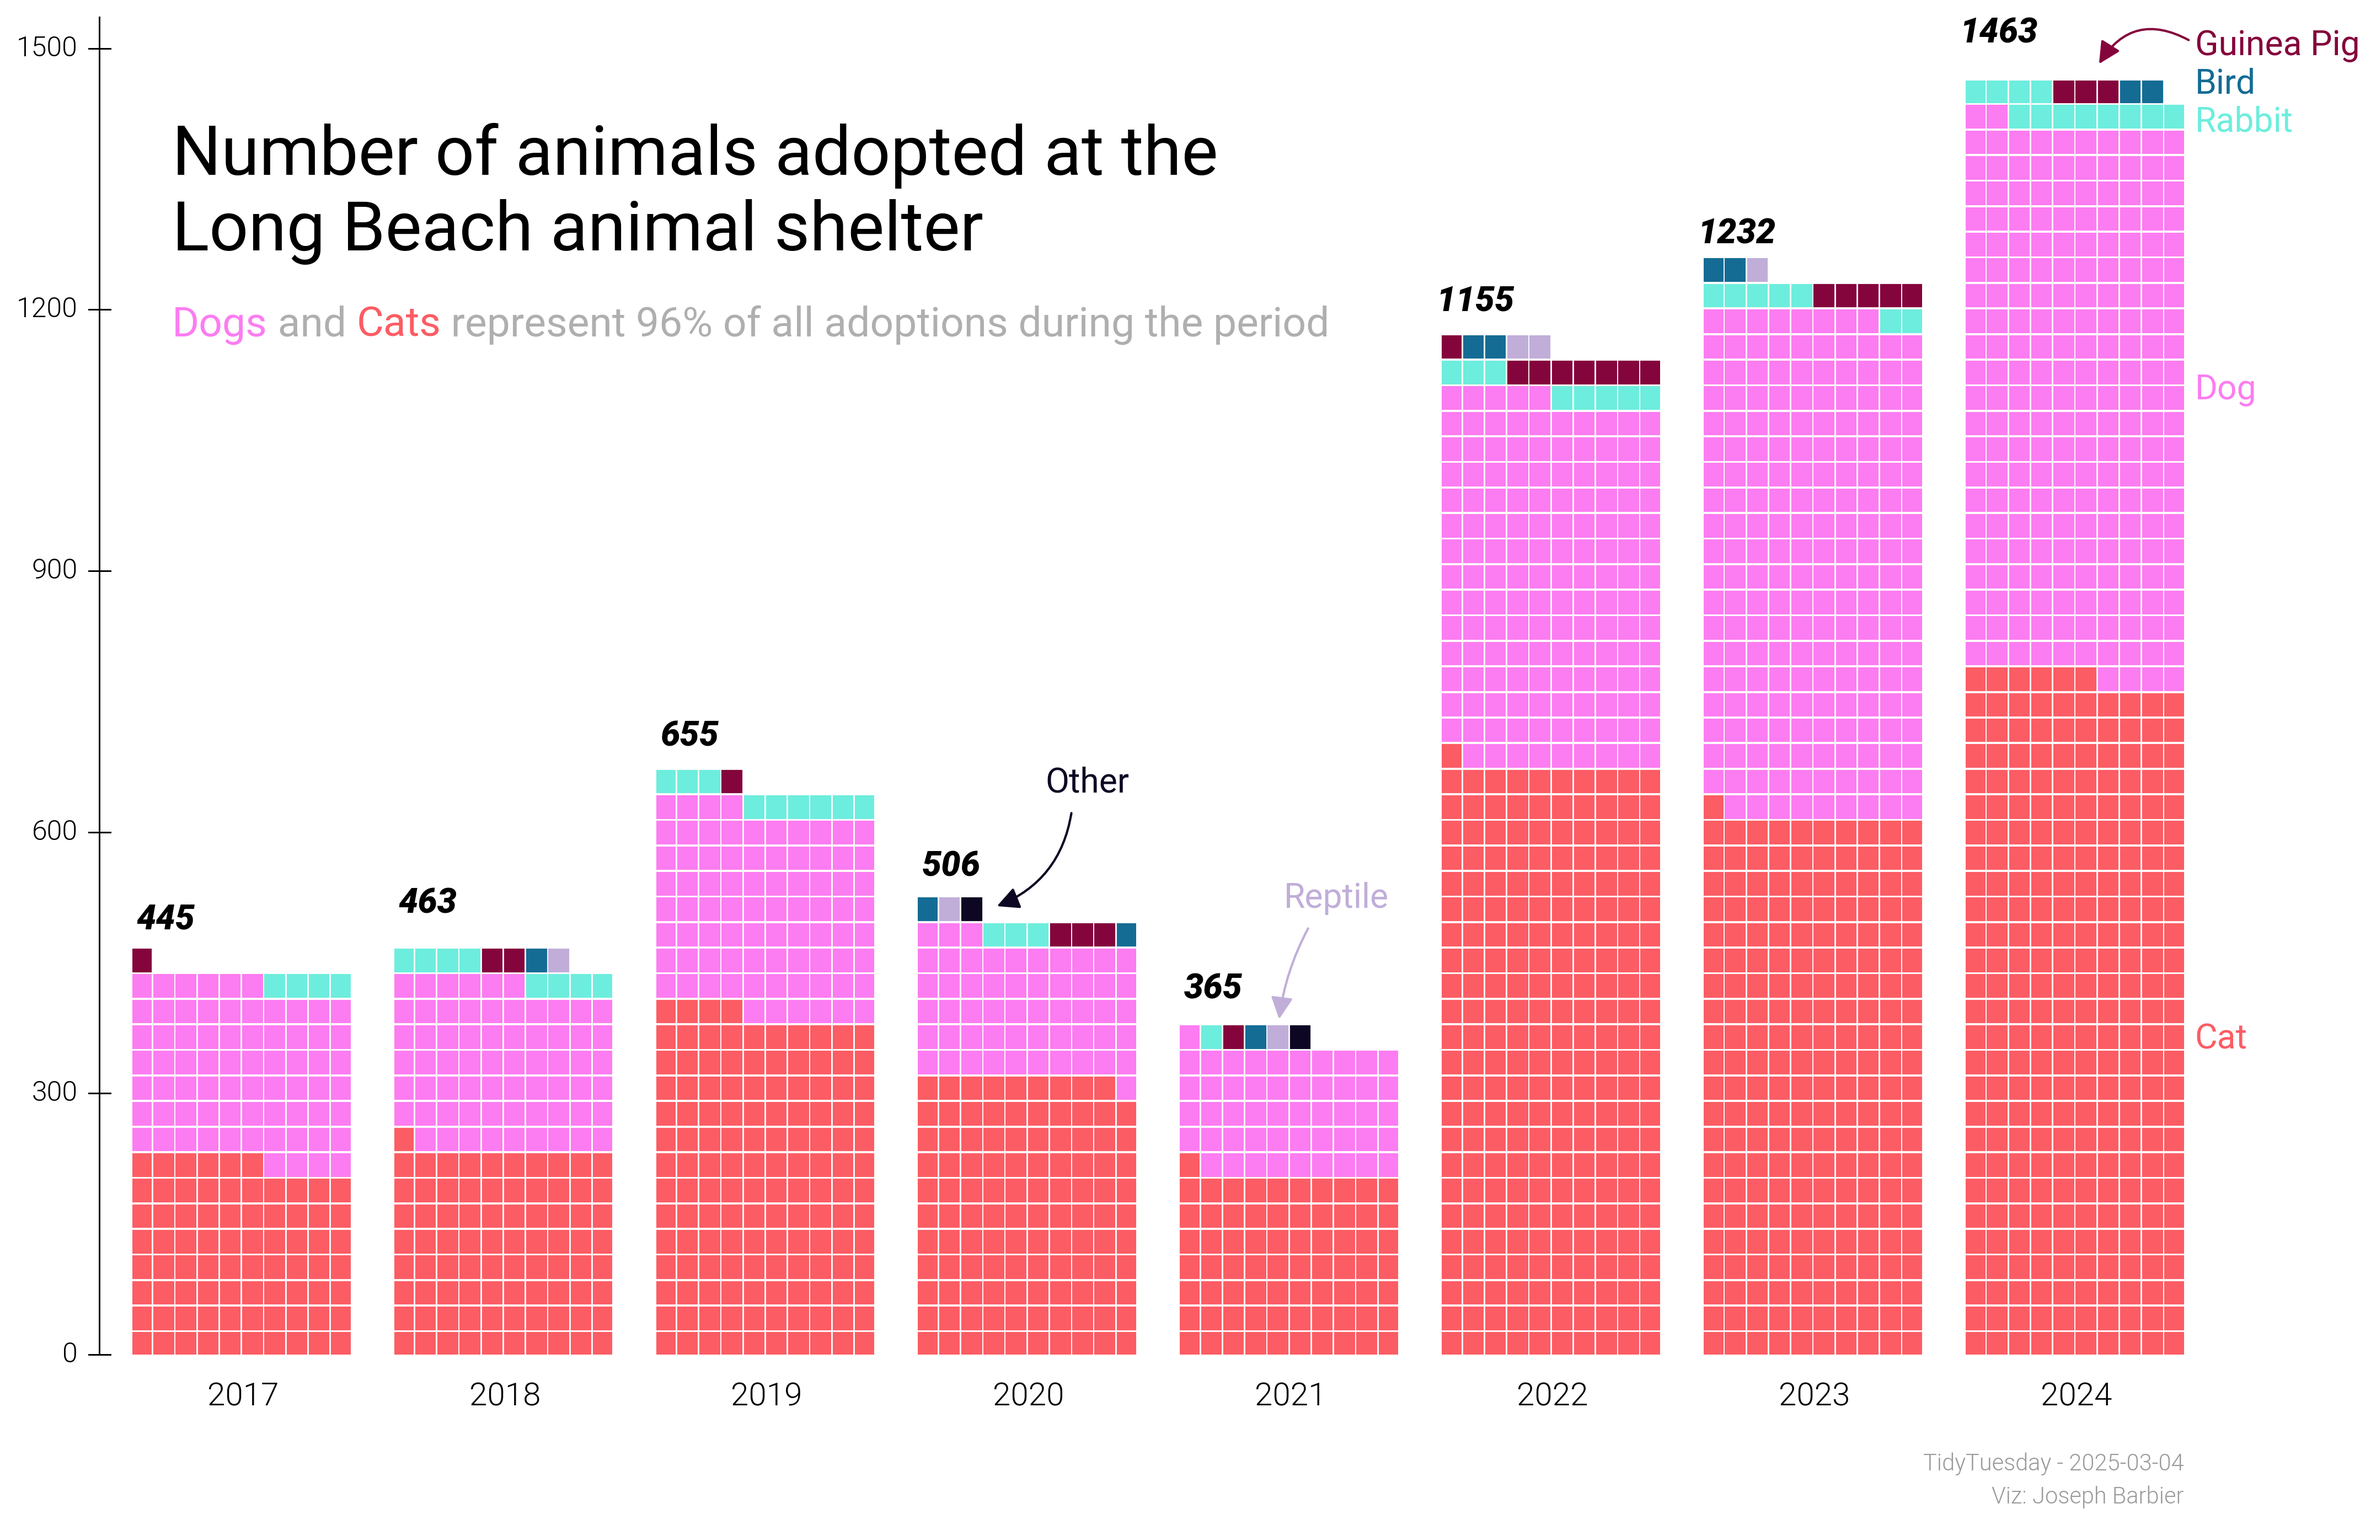
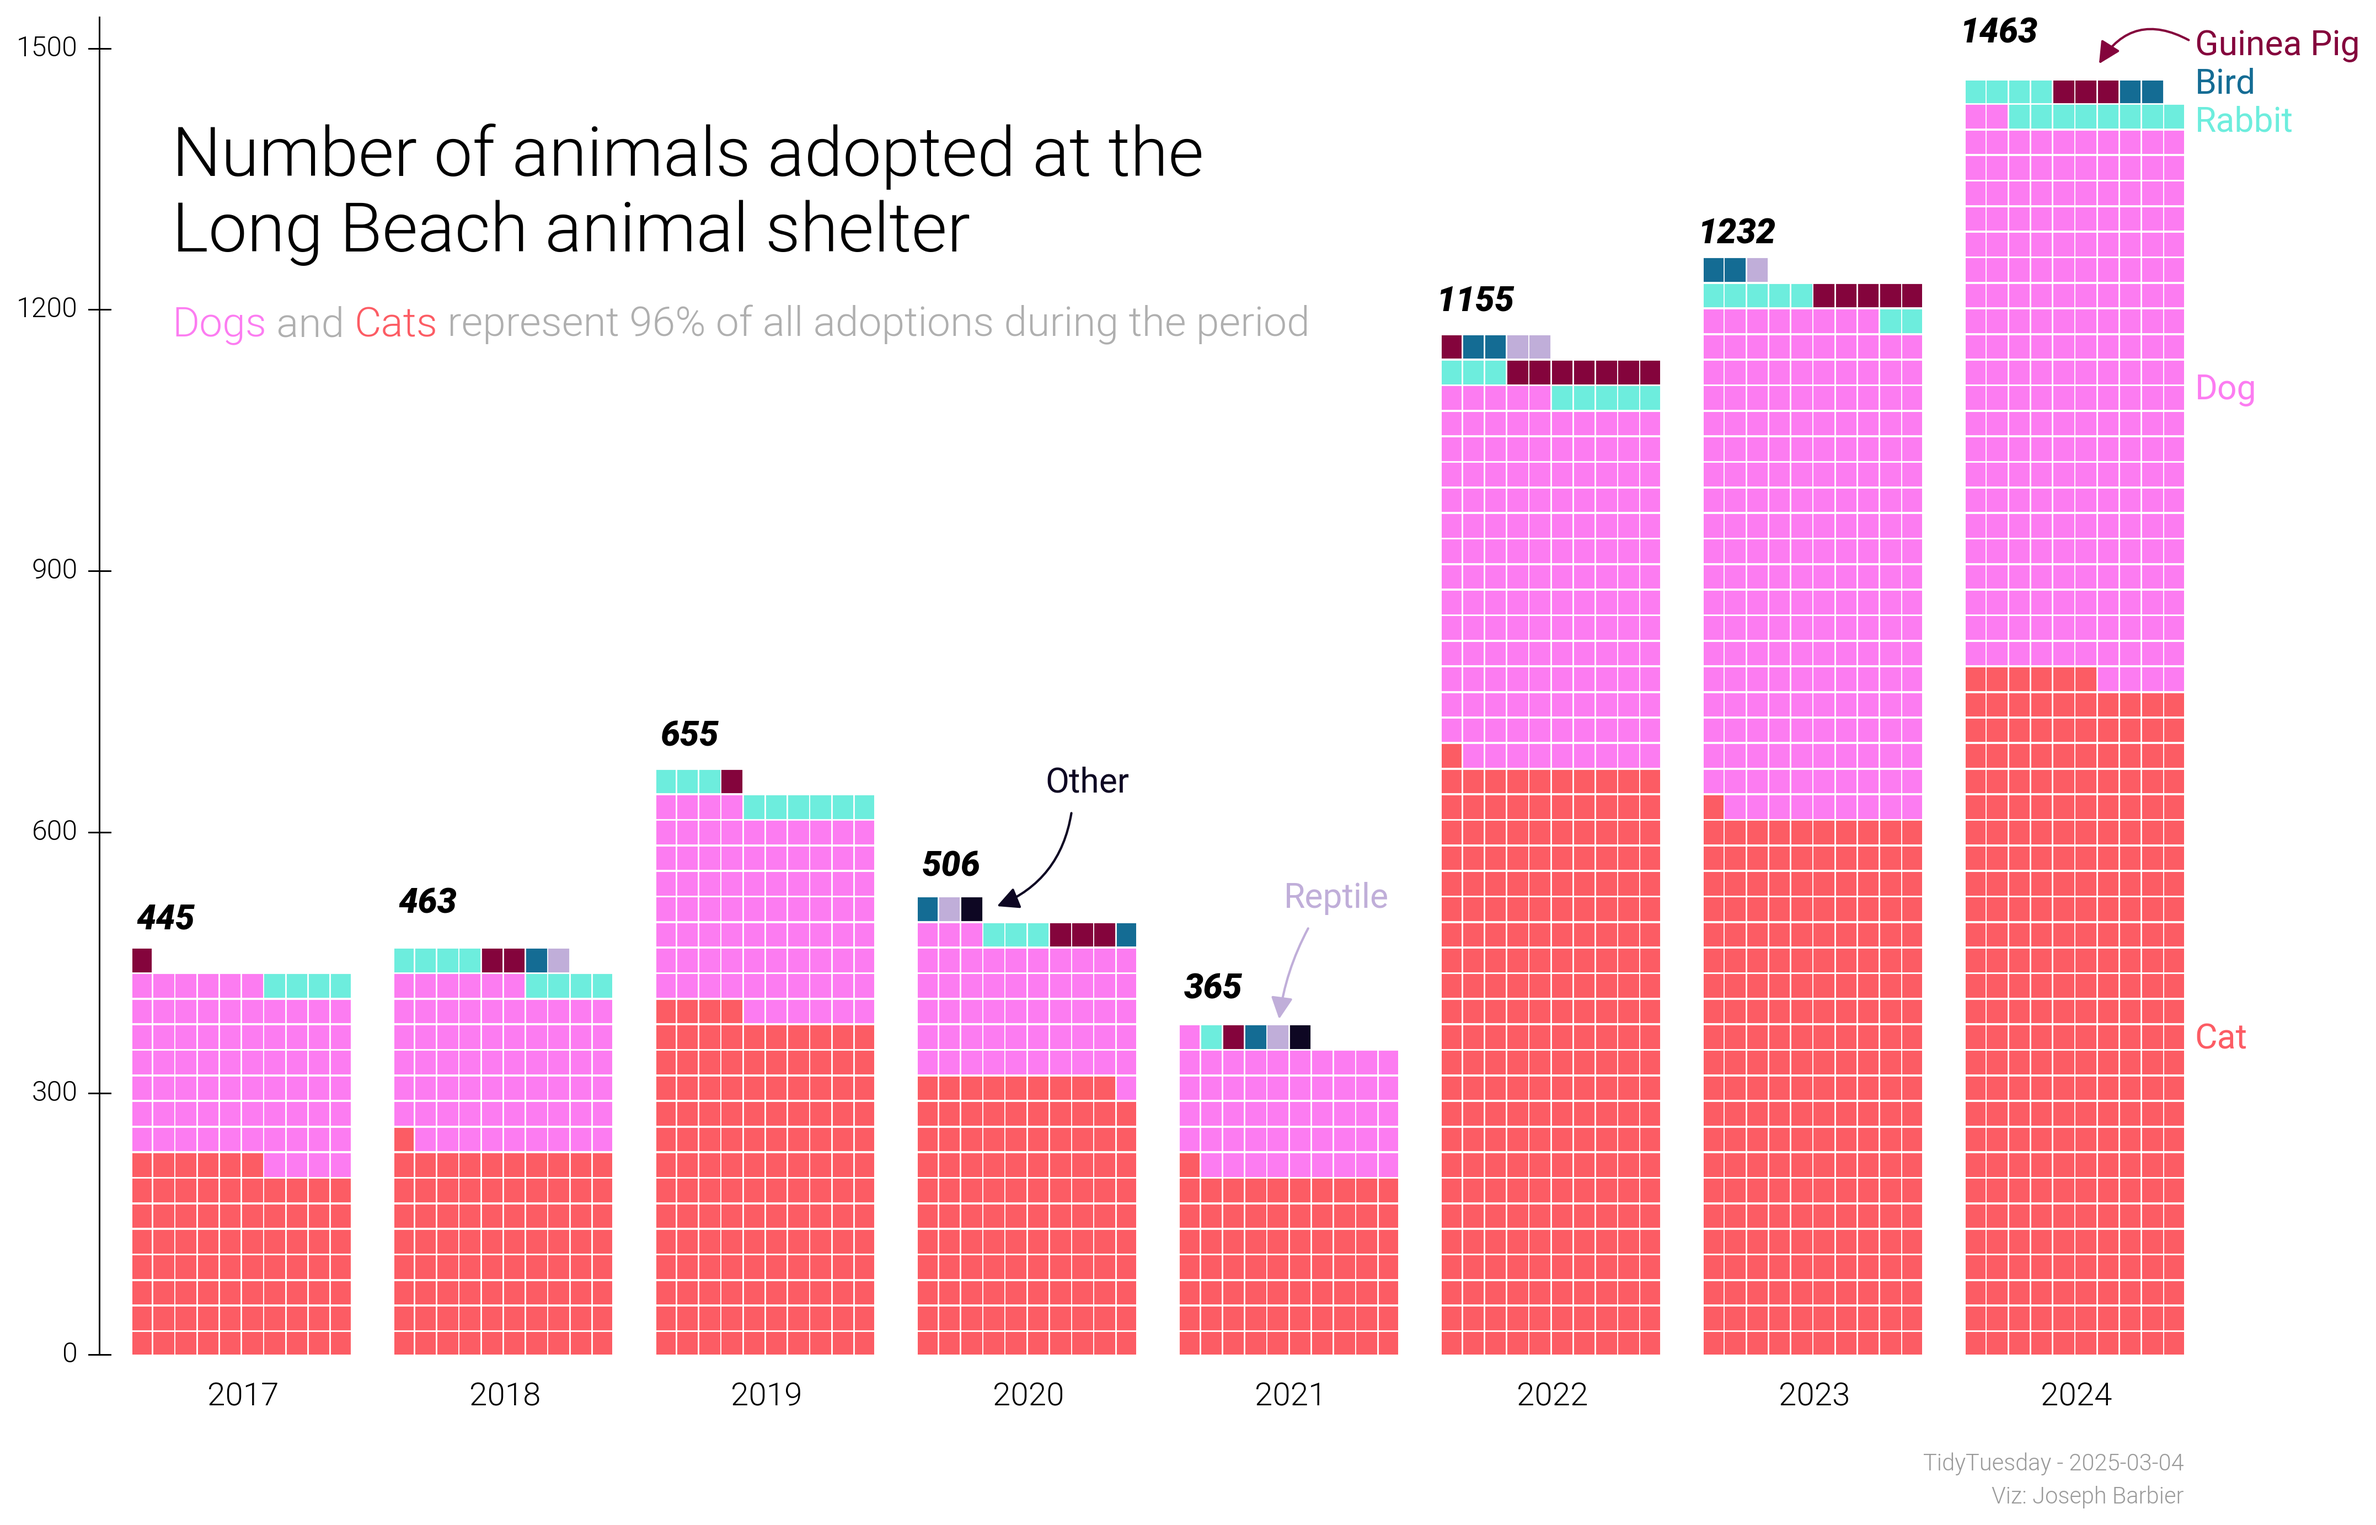
doc

Changed region(s): [[0.0933, 0.0622, 0.5599, 0.2177]]

diff --git a/src/2025/2025-03-04/main.py b/src/2025/2025-03-04/main.py
@@ -134,7 +134,7 @@ fig_arrow(
 title = """
 Number of animals adopted at the\nLong Beach animal shelter
 """
-fig.text(x=0.14, y=0.9, s=title, size=30, font=regularfont, va="top")
+fig.text(x=0.14, y=0.9, s=title, size=30, font=lightfont, va="top")
 
 subtitle = f"""
 <Dogs> and <Cats> represent {share_catdog:.0f}% of all adoptions during the period
@@ -144,7 +144,7 @@ fig_text(
     y=0.75,
     s=subtitle,
     size=18,
-    font=regularfont,
+    font=lightfont,
     color="#afafaf",
     va="top",
     highlight_textprops=[{"color": colors[1]}, {"color": colors[0]}],

diff --git a/README.md b/README.md
@@ -1,121 +1,27 @@
-# Long Beach Animal Shelter
+# tidytuesday
 
-This week we're exploring the [Long Beach Animal Shelter Data](https://data.longbeach.gov/explore/dataset/animal-shelter-intakes-and-outcomes/information/)! 
+This is a repo with my contributions to the [TidyTuesday challenge](https://github.com/rfordatascience/tidytuesday).
 
-The dataset comes from the [City of Long Beach Animal Care Services](https://www.longbeach.gov/acs/) via the [{animalshelter}](https://emilhvitfeldt.github.io/animalshelter/) R package.
+<br><br>
 
-> This dataset comprises of the intake and outcome record from Long Beach Animal Shelter.
+## Reproducibility
 
-- How has the number of pet adoptions changed over the years?
-- Which type of pets are adopted most often?
+I have tried to make the code as reproducible as possible. The easiest way is to use [uv](https://docs.astral.sh/uv/).
 
-
-
-Thank you to [Lydia Gibson](https://github.com/lgibson7) for curating this week's dataset.
-
-## The Data
-
-```r
-# Using R
-# Option 1: tidytuesdayR R package 
-## install.packages("tidytuesdayR")
-
-tuesdata <- tidytuesdayR::tt_load('2025-03-04')
-## OR
-tuesdata <- tidytuesdayR::tt_load(2025, week = 9)
-
-longbeach <- tuesdata$longbeach
-
-# Option 2: Read directly from GitHub
-
-longbeach <- readr::read_csv('https://raw.githubusercontent.com/rfordatascience/tidytuesday/main/data/2025/2025-03-04/longbeach.csv')
+```bash
+uv sync
 ```
 
-```python
-# Using Python
-# Option 1: PyDyTuesday python library
-## pip install PyDyTuesday
+Then you can run any of the scripts in the `src` folder.
 
-import PyDyTuesday
-
-# Download files from the week, which you can then read in locally
-PyDyTuesday.get_date('2025-03-04')
-
-# Option 2: Read directly from GitHub and assign to an object
-
-longbeach = pandas.read_csv('https://raw.githubusercontent.com/rfordatascience/tidytuesday/main/data/2025/2025-03-04/longbeach.csv')
+```bash
+uv run src/2025/2025-03-04/main.py
 ```
 
-## How to Participate
+<br><br>
 
-- [Explore the data](https://r4ds.hadley.nz/), watching out for interesting relationships. We would like to emphasize that you should not draw conclusions about **causation** in the data. There are various moderating variables that affect all data, many of which might not have been captured in these datasets. As such, our suggestion is to use the data provided to practice your data tidying and plotting techniques, and to consider for yourself what nuances might underlie these relationships.
-- Create a visualization, a model, a [Quarto](https://quarto.org/) report, a [shiny app](https://shiny.posit.co/), or some other piece of data-science-related output, using R, Python, or another programming language.
-- [Share your output and the code used to generate it](../../../sharing.md) on social media with the #TidyTuesday hashtag.
-- [Submit your own dataset!](../../../.github/pr_instructions.md)  
+## Visualizations
 
-## PydyTuesday: A Posit collaboration with TidyTuesday  
+#### 2025-03-04 - Long Beach animal shelter
 
-- Exploring the TidyTuesday data in Python?  Posit has some extra resources for you! Have you tried making a [Quarto dashboard](https://quarto.org/docs/dashboards/)? Find videos and other resources in [Posit's PydyTuesday repo](https://github.com/posit-dev/python-tidytuesday-challenge).
-- Share your work with the world using the hashtags #TidyTuesday and #PydyTuesday so that Posit has the chance to highlight your work, too!
-- Deploy or share your work however you want! If you'd like a super easy way to publish your work, give [Connect Cloud](https://connect.posit.cloud/) a try.
-
-### Data Dictionary
-
-# `longbeach.csv`
-
-|variable          |class         |description                           |
-|:-----------------|:-------------|:-------------------------------------|
-|animal_id         |character     |Unique identification for each animal. |
-|animal_name       |character     |Name of the Animal (Blank value means name not known). Animals with "*" are given by shelter staff.  |
-|animal_type       |factor        |Species name of the animal. |
-|primary_color     |factor        |The predominant color of the animal. |
-|secondary_color   |factor        |Additional coloring, less predominant than the primary color. |
-|sex               |factor        |Altered Sex of the animal. |
-|dob               |date          |Date of Birth (if blank, DOB unknown). |
-|intake_date       |date          |Date on which Animal was brought to the shelter . |
-|intake_condition  |factor        |Condition of animal at intake. |
-|intake_type       |factor        |The reason for intake such as stray capture, wildlife captures, adopted but returned, owner surrendered etc. |
-|intake_subtype    |factor        |The method or secondary manner in which the animal was admitted to the shelter. |
-|reason_for_intake |factor        |The reason an owner surrendered their animal. |
-|outcome_date      |date          |Exit or Outcome date such as date of adoption or date animal died. |
-|crossing          |character     |Intersection/Cross street of intake or capture. |
-|jurisdiction      |factor        |Geographical jurisdiction of where an animal originated. |
-|outcome_type      |factor        |Outcome associated with animal - adopted, died, euthanized etc. |
-|outcome_subtype   |factor        |Secondary manner in which the animal left the shelter, usually used to identify which program, group, or other data useful in measuring program efficiency. |
-|latitude          |double        |The latitude of the crossing. |
-|longitude         |double        |The longitude of the crossing. |
-|outcome_is_dead   |logical       |Whether animal is dead at outcome. |
-|was_outcome_alive |logical       |Whether animal was alive at outcome. |
-|geopoint          |character     |Latitude and longitude of crossing. |
-
-### Cleaning Script
-
-```r
-# Clean data provided by {animalshelter} R package (https://emilhvitfeldt.github.io/animalshelter/). No cleaning was necessary.
-# install.packages("devtools")
-# devtools::install_github("EmilHvitfeldt/animalshelter")
-library(dplyr)
-library(animalshelter)
-
-longbeach <- animalshelter::longbeach |>
-  dplyr::mutate(
-    was_outcome_alive = as.logical(was_outcome_alive),
-    dplyr::across(
-      c(
-        "animal_type",
-        "primary_color",
-        "secondary_color",
-        "sex",
-        "intake_condition",
-        "intake_type",
-        "intake_subtype",
-        "reason_for_intake",
-        "jurisdiction",
-        "outcome_type",
-        "outcome_subtype"
-      ),
-      as.factor
-    )
-  ) |> 
-    dplyr::select(-"intake_is_dead")
-```
+![](src/2025/2025-03-04/output.png)
